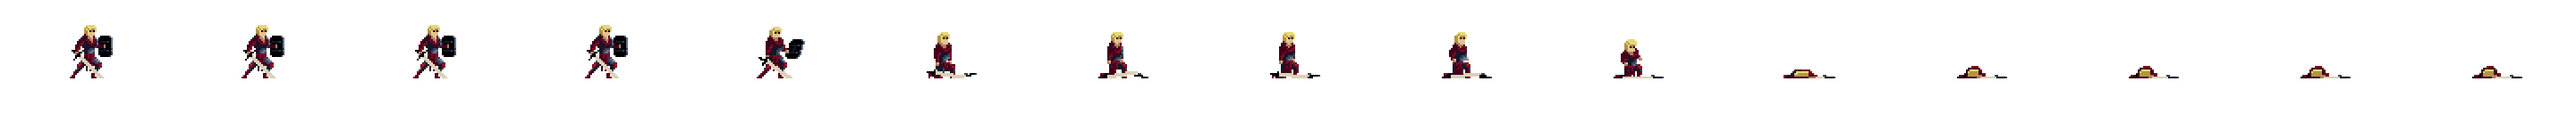
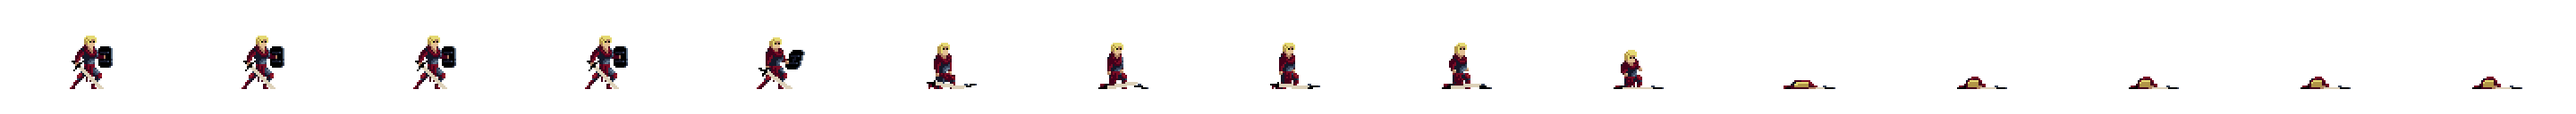
attack almost done
need to make yasuo style attack by holding and by pressing do bomb attack
also need bomb attack to explode after x sec on ground
need to do 2 hits on skeleton
need to do death and lifes on top

diff --git a/src/sketch.js b/src/sketch.js
@@ -79,7 +79,7 @@ function preload(){
   geraltAnimationRunRight = loadAnimation('./assets/images/Knight/noBKG_KnightRun_strip2right.png', { size: [192, 128], frames: 8 });
   geraltAnimationAttackLeft = loadAnimation('./assets/images/Knight/noBKG_KnightAttack_strip2.png', { size: [288, 128], frames: 22 });
   geraltAnimationAttackRight = loadAnimation('./assets/images/Knight/noBKG_KnightAttack_strip2right.png', { size: [288, 128], frames: 22 });
-  geraltAnimationDeath = loadAnimation('./assets/images/Knight/noBKG_KnightDeath_strip.png', { size: [128, 128], frames: 15 });
+  geraltAnimationDeath = loadAnimation('./assets/images/Knight/noBKG_KnightDeath_strip.png', { size: [192, 128], frames: 15 });
   geraltAnimationJump = loadAnimation('./assets/images/Knight/noBKG_KnightJumpAndFall_strip.png', { size: [309, 128], frames: 14 });
 
   //attack and effects assets
@@ -150,7 +150,7 @@ function setup() {
 
 
   // Player
-  geralt = createSprite(-3400,480,67,80);
+  geralt = createSprite(-3200,480,67,80);
   //-3200
   //για να μην κανει rotate ο geralt 
   geralt.rotationLock = true;
@@ -171,9 +171,10 @@ function setup() {
   //attack slash sprite (move horizontaly)
  
   slash_attack = new Sprite();
-  slash_attack.x = -3700;
+  slash_attack.life= 0;
   slash_attack2 = new Sprite();
-  slash_attack2.x = -3700;
+  slash_attack2.life = 0;
+  
 
 
   //slash_attack2 = new Sprite();  
@@ -595,7 +596,8 @@ function draw() {
   }
   keyPresses();
   attackStop();
-  enemyMovement();
+  enemyMovementAndAttackCollision();
+  enemyGeraltCollision();
   removeCoins();
   spawnAttack();
   
@@ -1210,7 +1212,20 @@ collided3rd = false;
 collided4th = false;
 collided5th = false;
 
-function enemyMovement(){
+function enemyGeraltCollision(){
+
+    if(geralt.overlaps(enemy1) || geralt.overlaps(enemy2) || geralt.overlaps(enemy3) || geralt.overlaps(enemy4) || geralt.overlaps(enemy5)){
+
+
+      geralt.changeAnimation('death');
+    }
+
+
+}
+
+
+
+function enemyMovementAndAttackCollision(){
 
   
 
@@ -1414,6 +1429,60 @@ function enemyMovement(){
     }
   }
 
+  if(slash_attack.overlaps(enemy1)){
+
+    enemy1.remove();
+    slash_attack.remove();
+  }
+  if(slash_attack.overlaps(enemy2)){
+
+    enemy2.remove();
+    slash_attack.remove();
+  }
+  if(slash_attack.overlaps(enemy3)){
+
+    enemy3.remove();
+    slash_attack.remove();
+  }
+  if(slash_attack.overlaps(enemy4)){
+
+    enemy4.remove();
+    slash_attack.remove();
+  }
+  if(slash_attack.overlaps(enemy5)){
+
+    enemy5.remove();
+    slash_attack.remove();
+  }
+
+
+  if(slash_attack2.overlaps(enemy1)){
+
+    enemy1.remove();
+    slash_attack2.remove();
+  }
+  if(slash_attack2.overlaps(enemy2)){
+
+    enemy2.remove();
+    slash_attack2.remove();
+  }
+  if(slash_attack2.overlaps(enemy3)){
+
+    enemy3.remove();
+    slash_attack2.remove();
+  }
+  if(slash_attack2.overlaps(enemy4)){
+
+    enemy4.remove();
+    slash_attack2.remove();
+  }
+  if(slash_attack2.overlaps(enemy5)){
+
+    enemy5.remove();
+    slash_attack2.remove();
+  }
+
+
 }
 
 
@@ -1473,7 +1542,7 @@ function removeCoins(){
 
 function spawnAttack(){
 
-  if(kb.presses('b')){
+  if(kb.held('b')){
 
     slash_attack = createSprite(geralt.x + 100, geralt.y - 15, 60, 50);
     slash_attack.x = geralt.x + 100;
@@ -1507,14 +1576,15 @@ function spawnAttack(){
   }
 
 
-  if(slash_attack.overlaps(enemy1) || slash_attack.overlaps(enemy2) || slash_attack.overlaps(enemy3) || slash_attack.overlaps(enemy4) || slash_attack.overlaps(enemy5) || slash_attack.y>=minHeight){   //COLLIDING ANTI GIA OVERLAPS AMA THELOUME NA KANEI KAI KNOCKBACK TO ENEMY1
+  if(slash_attack.y>=minHeight){   //COLLIDING ANTI GIA OVERLAPS AMA THELOUME NA KANEI KAI KNOCKBACK TO ENEMY1
     slash_attack.remove();
+    
     
   }
  
 
   
-  if(slash_attack2.overlaps(enemy1) || slash_attack2.overlaps(enemy2) || slash_attack2.overlaps(enemy3) || slash_attack2.overlaps(enemy4) || slash_attack2.overlaps(enemy5) || slash_attack2.y>=minHeight){   //COLLIDING ANTI GIA OVERLAPS AMA THELOUME NA KANEI KAI KNOCKBACK TO ENEMY1
+  if(slash_attack2.y>=minHeight){   //COLLIDING ANTI GIA OVERLAPS AMA THELOUME NA KANEI KAI KNOCKBACK TO ENEMY1
     slash_attack2.remove();
   }
   
